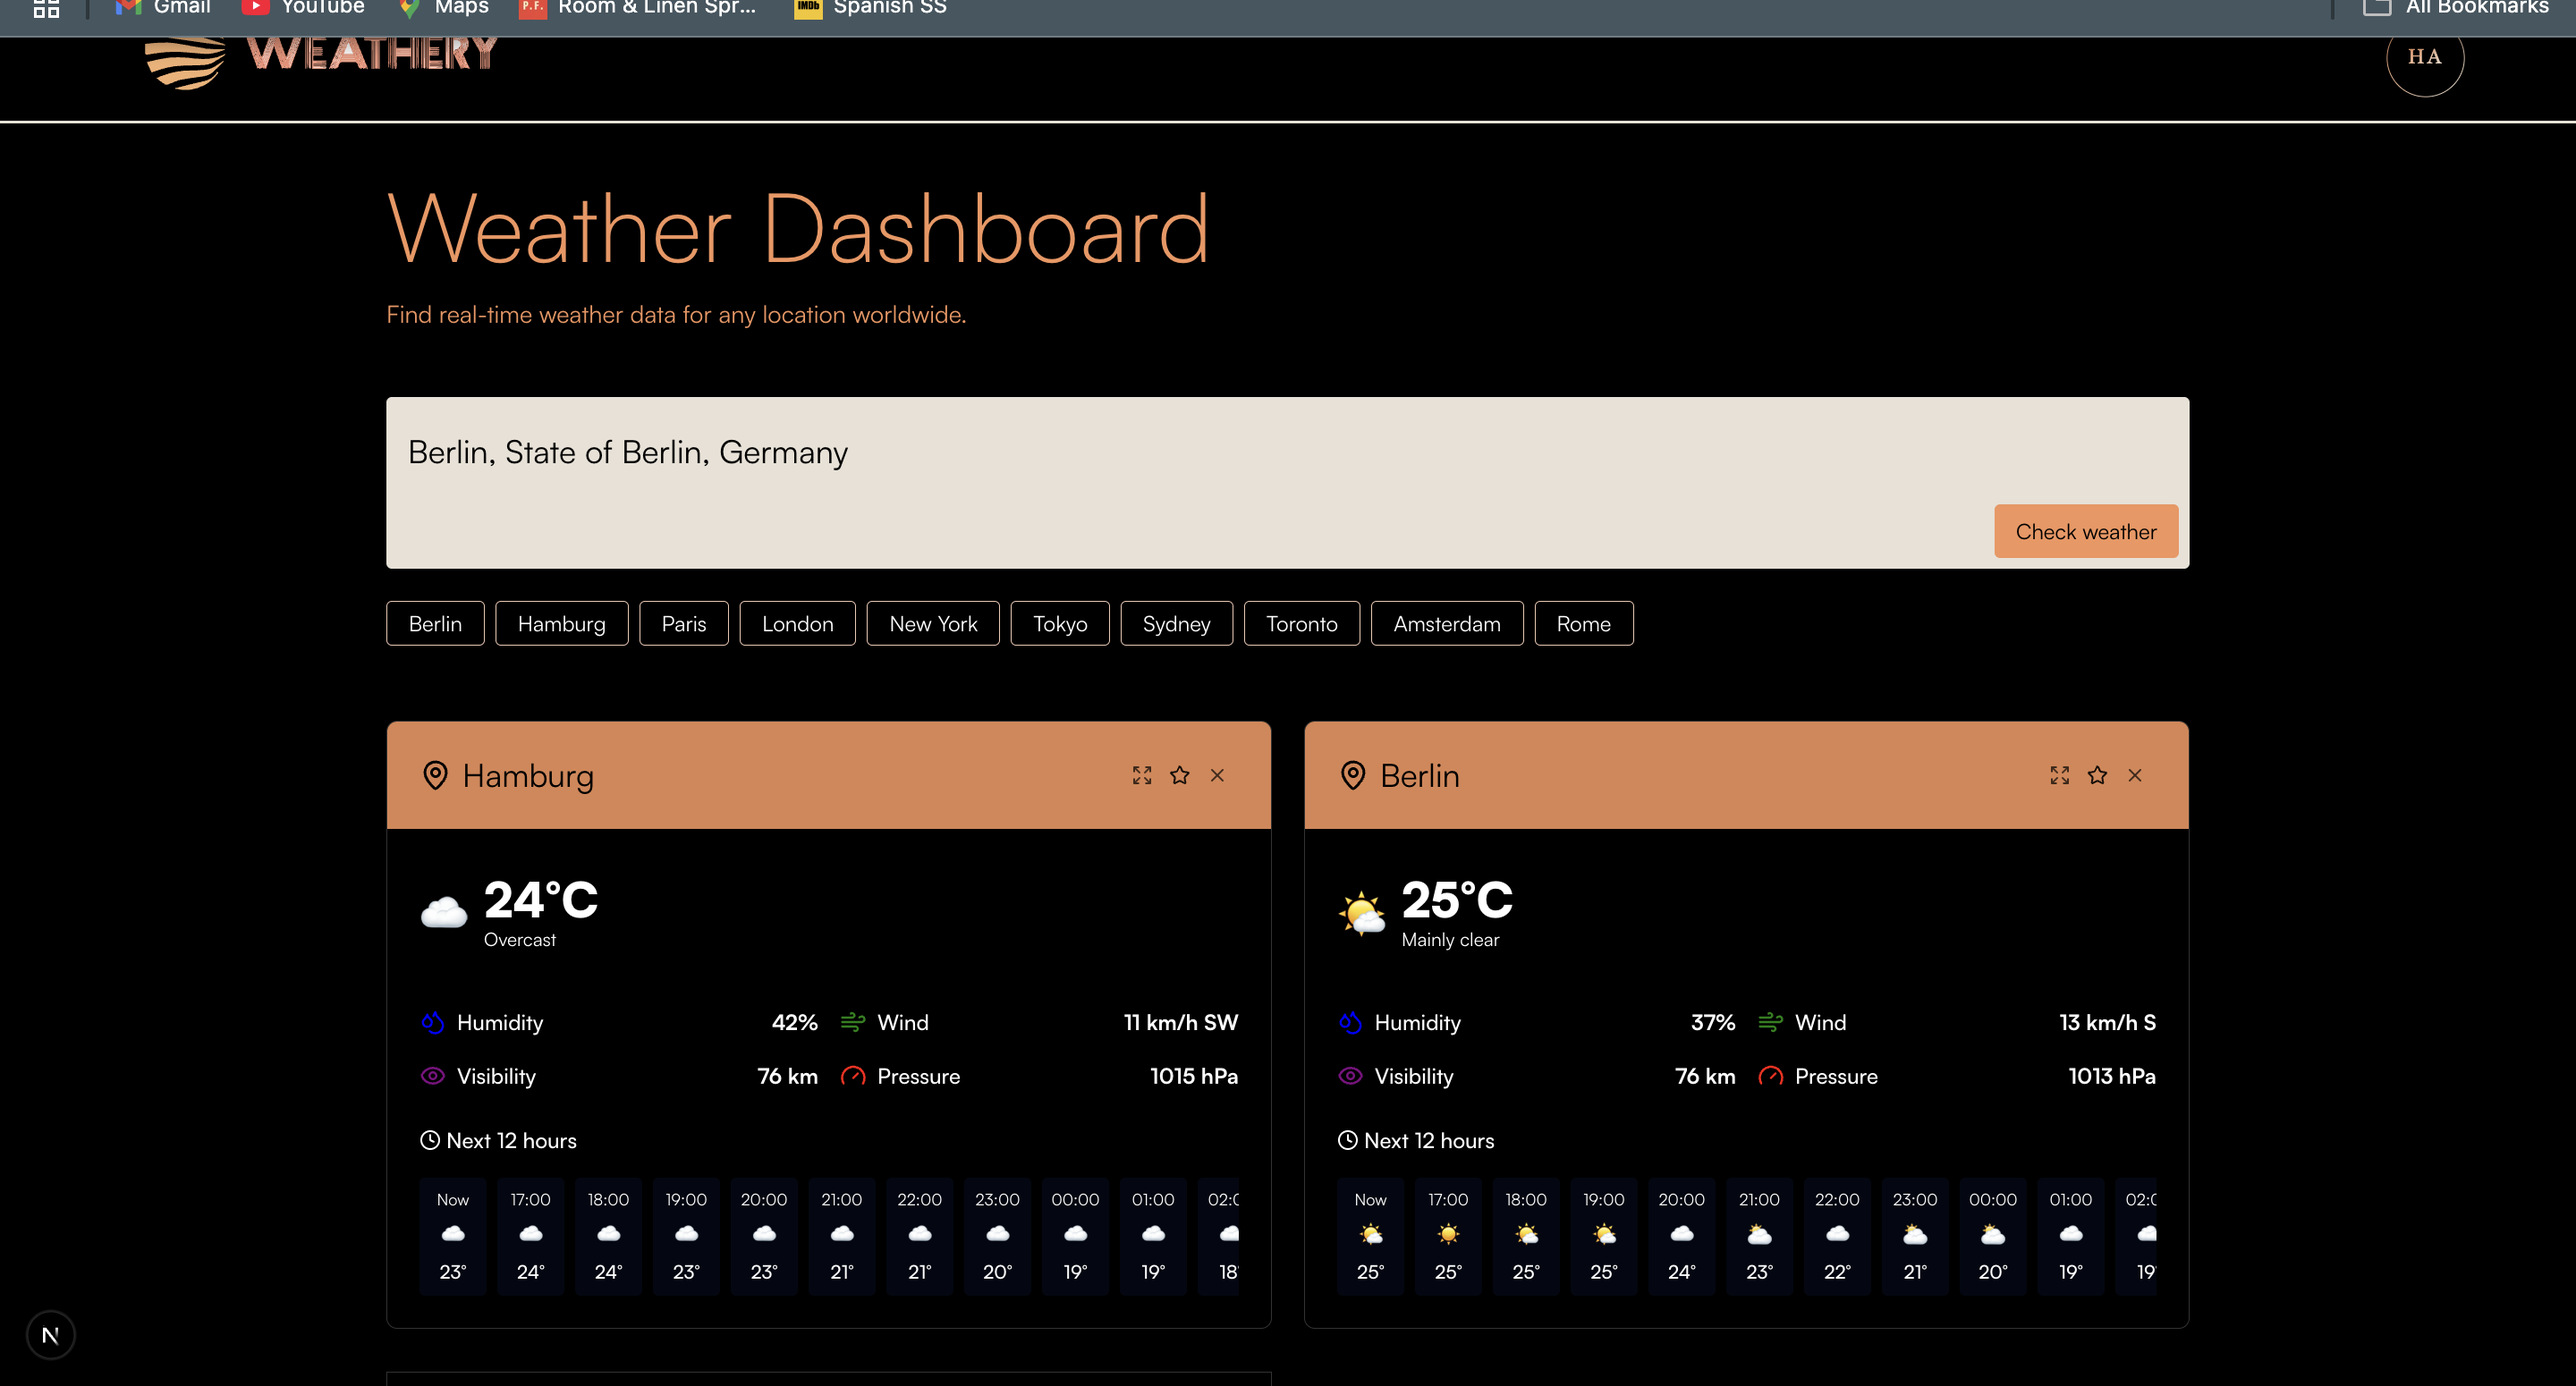
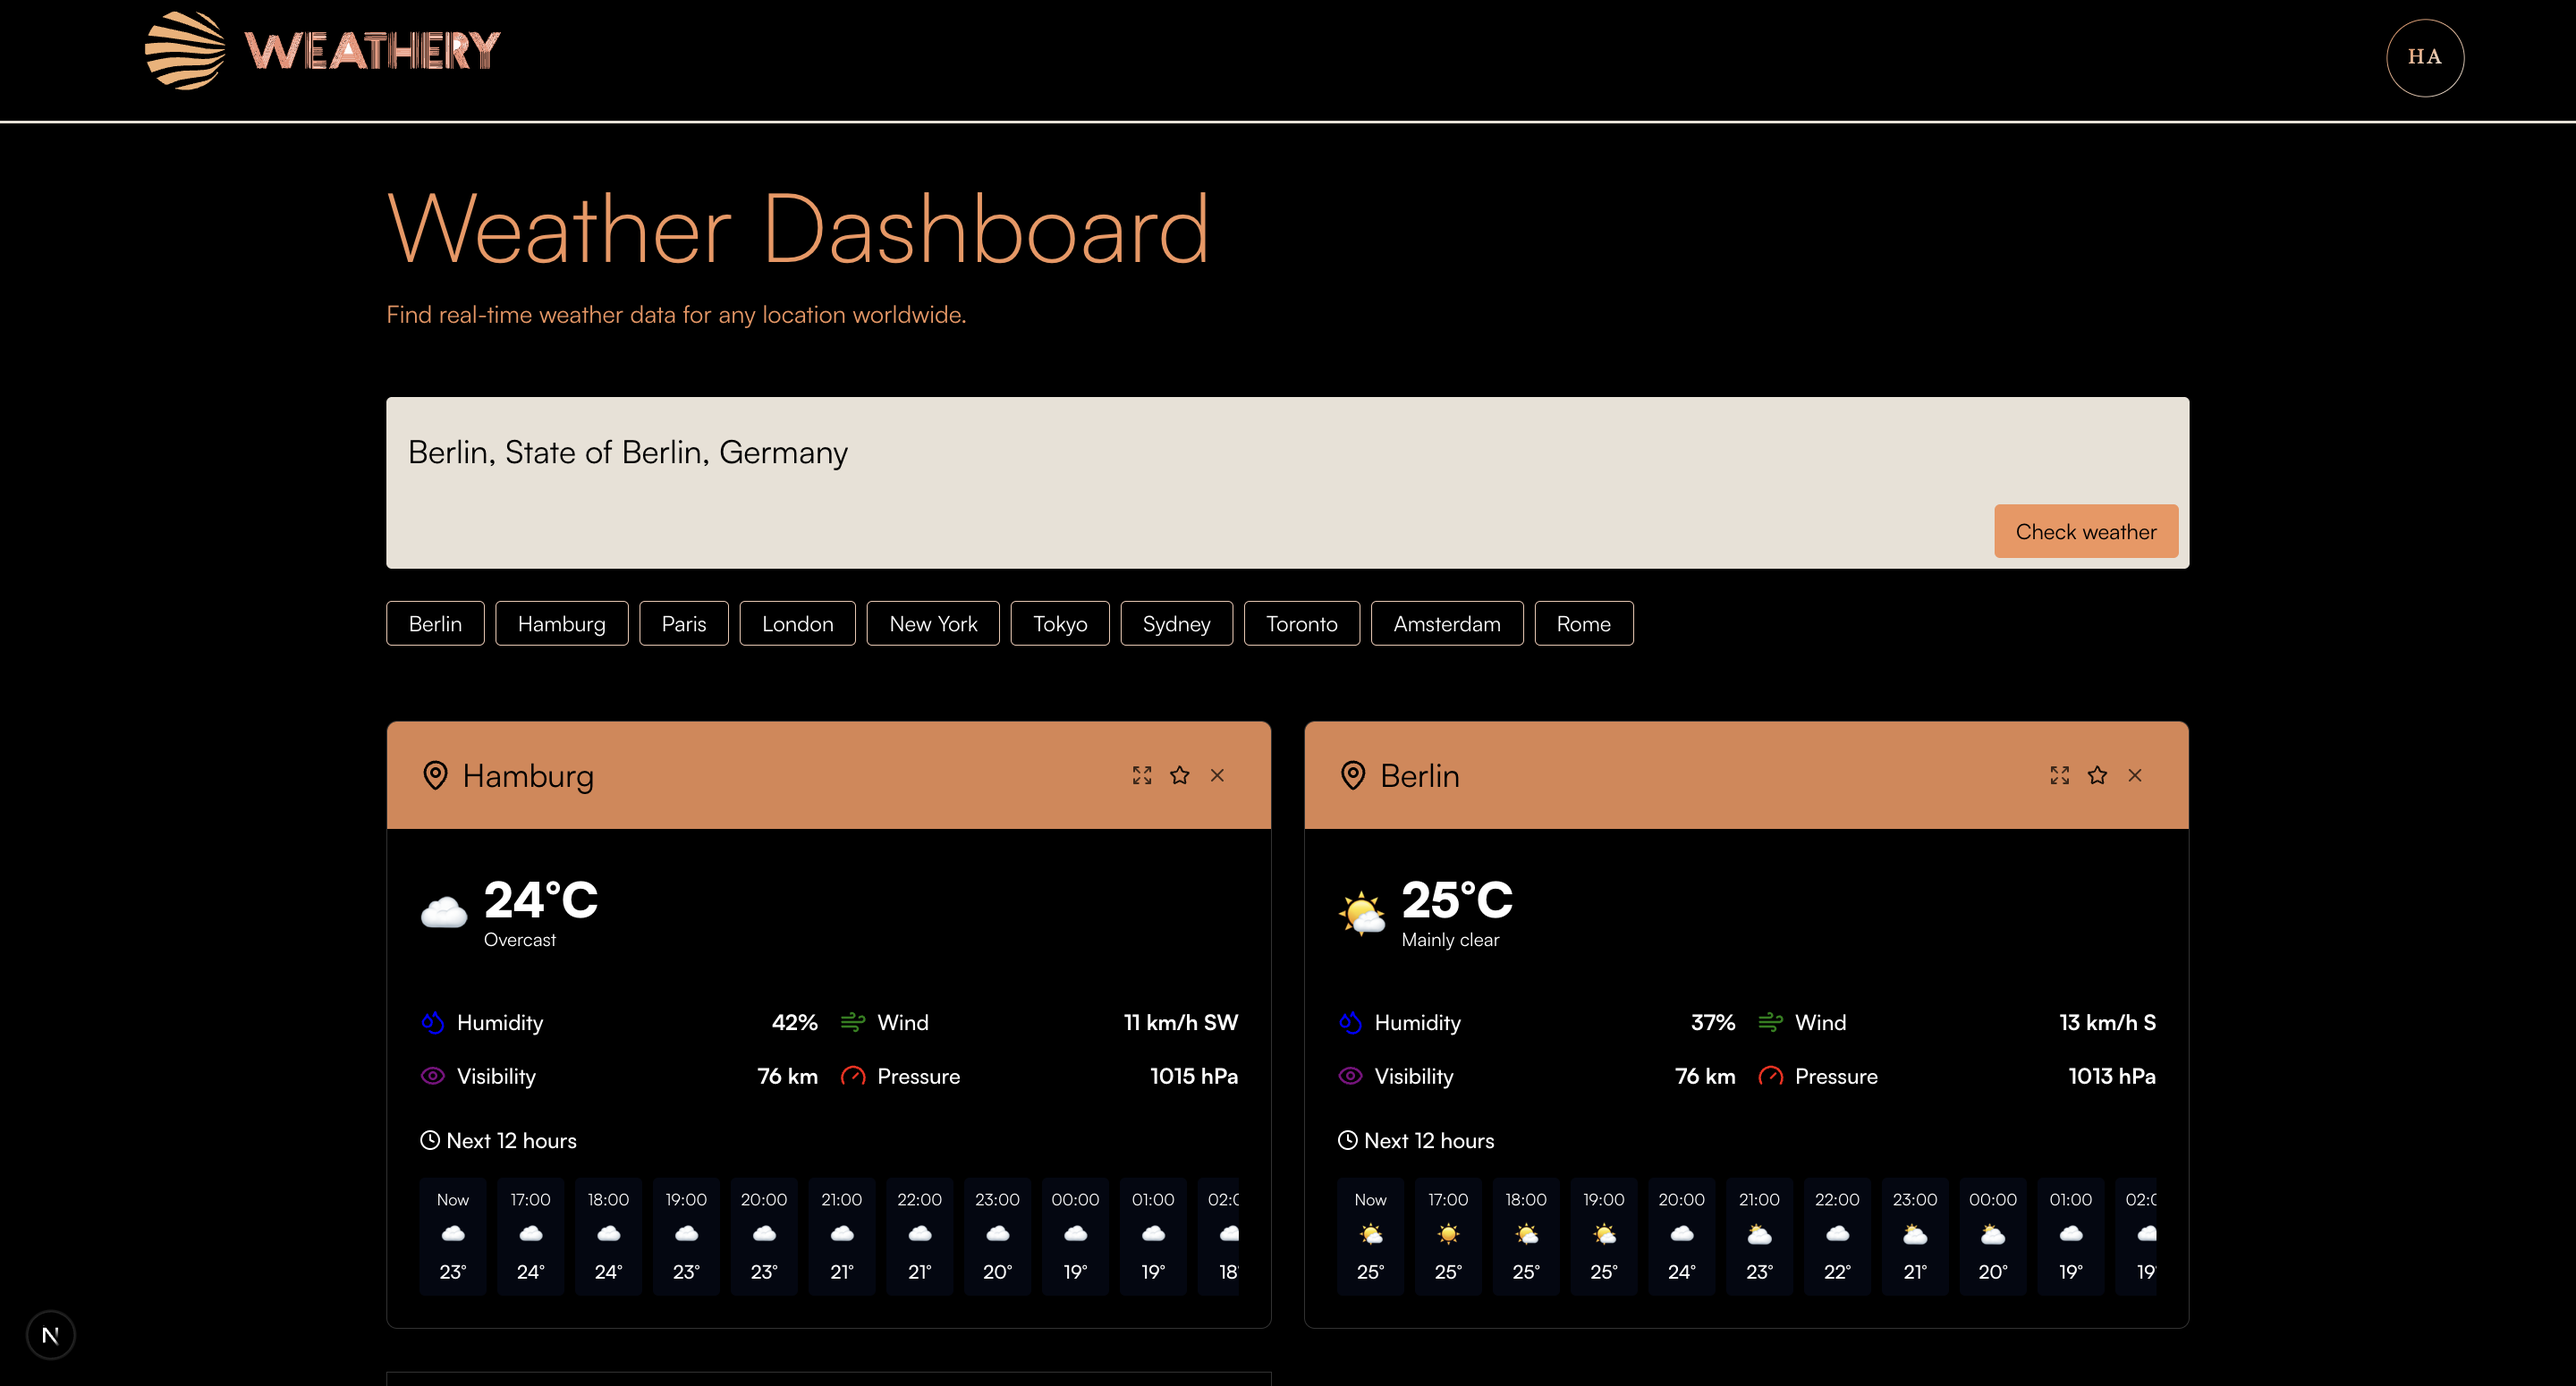
path for screenshot fixed

Changed region(s): [[0.0, 0.0, 1.0, 0.031]]

diff --git a/README.md b/README.md
@@ -2,7 +2,7 @@
 
 This is my submission for the Techomon assignment. A modern, full-stack weather dashboard that lets users track real-time weather for multiple locations worldwide. Built with a **Next.js/React frontend** and **Node.js/Express backend**, this app features smart caching, soft deletes, favorites, location suggestions, and a clean, animated UI.
 
-![Weather Dashboard Screenshot](./public/Screenshot.png)
+![Weather Dashboard Screenshot](./frontend/public/Screenshot.png)
 
 ---
 
